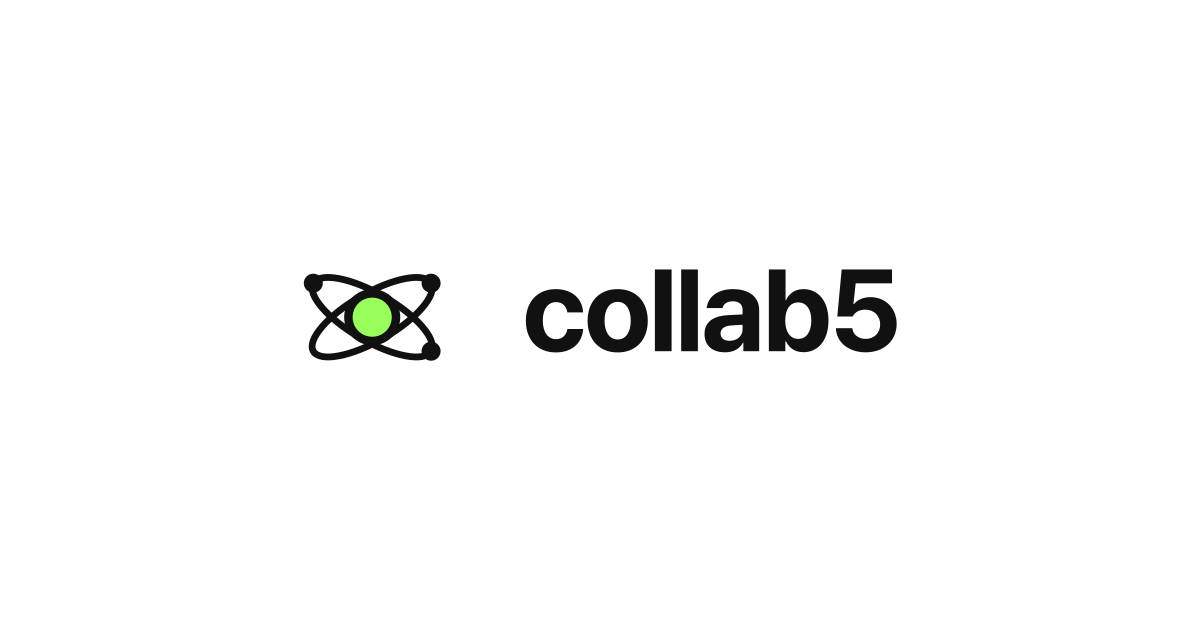
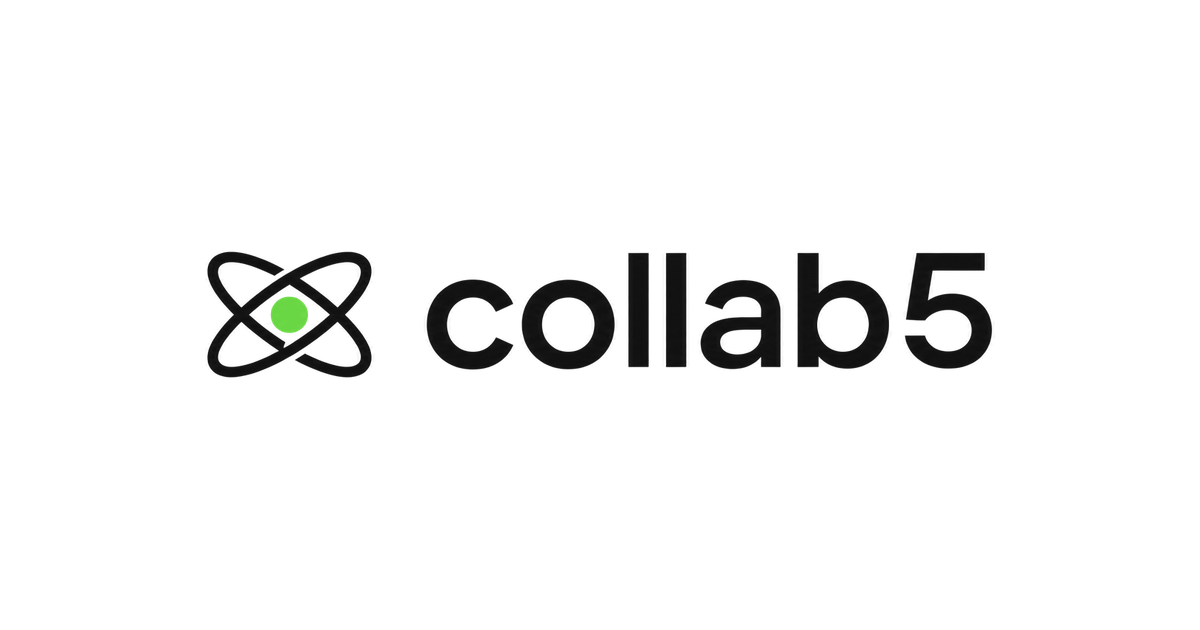
로고 교체 — 대표가 준 이미지 그대로 + 데스크톱 헤더 축소
대표 지정 시안(젠스파크 AI 이미지)을 **원본 그대로** 넣는다. 앞선 시도(4f3cb31)는 형상만
피팅해 벡터로 다시 그렸다가 되돌렸다(95585e6) — 요구사항은 "다시 그리기"가 아니라
"준 이미지를 쓰기"였다. 이번엔 모양을 1픽셀도 건드리지 않았다.

배경 제거(누끼)만 했다:
  배경이 순백이 아니라 #FEFEFE라, 255 기준으로 빼면 전체에 알파 0.4%짜리 막이 남는다.
  실제 배경 밝기를 재서 기준으로 삼고, 가장자리는 합성을 역산해 반투명으로 살렸다
  (먹은 밝기에서, 초록은 빨강 채널 감쇠에서 알파를 역산). 어두운 배경에 얹어도 흰 테 없음.
  원본 누끼 3종은 assets/logo-*-source.png 로 보관.

배포본은 크기만 줄였다 — 락업 730×120(6.6KB), 마크 205×160(3KB).
  64색 감량으로 57KB → 6.6KB. 헤더 24px 기준 5배 해상도라 고해상도 화면에서도 선명하다.
  24px로 나란히 놓고 봐도 원본과 구분되지 않는다(확인 완료).

📐 데스크톱 헤더 28 → 24 (대표: "데스크탑 기준으로 로고가 너무 크다").
   모바일 20은 유지 — "모바일은 지금 좋다"고 해서 **폭이 그대로가 되게** 뒀다(122.8 → 121.7px).
   풋터도 헤더를 넘지 않게 24 → 22 (모바일 20 동일).

교체한 자리 — 파일 5 + 코드 안 4:
  public/logo-lockup.png · logo-mark.png · og-image.png · src/app/icon.png · favicon.ico
  인라인 아톰 4곳: EmptyState · ReportSheet 대기 · EnrichWizard 대기 · c/[slug] 풋터
  → 파일만 바꾸면 이 4곳만 옛 아톰으로 남는다. 전부 같은 PNG를 보게 통일.
  옛 마크가 든 SVG 5개는 삭제(logo-lockup/logo-mark/logo-mark-dark/empty-atom/icon).
  남겨두면 다음에 누가 그걸 집어 옛 로고가 되살아난다.

⚠PNG라 색을 못 바꾼다. 뮤트가 필요한 자리는 opacity로 냈다(빈 상태 40%, 카드 풋터 55%).
  사이트가 전부 흰 배경이라 성립하는 방식이다 — 어두운 화면·인쇄물이 생기면 흰색 파일 별도 필요.
  c/[slug] 풋터는 가운데 점이 회색(mono)에서 브랜드 초록으로 바뀐다(13px라 거의 티 안 남).
🚨정사각 클래스 5곳 교체 — 새 마크는 1.28 비율이라 `w-10`/`w-9`/`w-11`/`w-4`가 전부 눌린다.
  옛 마크는 파일이 56×56 정사각이라 우연히 멀쩡했던 것뿐이다.

실측 (360/1280 · /search):
  헤더 121.7×20(모바일) / 146×24(데스크톱), 360px에서 검색칩까지 16.9px, 가로 스크롤 없음
  풋터 121.7×20, 터치 44px / 마크 렌더 비율 1.281 (안 눌림)
  npm run build 통과, 주요 경로·정적 자산 전부 200

Changed region(s): [[0.1542, 0.3921, 0.8325, 0.6032]]

diff --git a/src/components/SiteHeader.tsx b/src/components/SiteHeader.tsx
@@ -25,15 +25,18 @@ export async function SiteHeader() {
         className="-ml-2 flex h-full min-w-0 shrink-0 items-center rounded-md px-2 hover:bg-surface-soft"
         aria-label="collab5 홈"
       >
-        {/* 📏 높이는 **잉크 높이**다 — 08-16에 로고 SVG의 viewBox를 잉크에 맞게 조였다.
-            전엔 viewBox(232×56) 안에 세로 47%가 빈 여백이라, `h-6`(25.5px)을 줘도 실제로
-            보이는 글자는 13.6px뿐이었다. 그래서 "로고 폰트가 작다"(대표)로 보였던 것.
-            지금은 박스≈잉크라, 아래 20/28이 곧 화면에서 보이는 크기다.
-            🪤 폭 예산 — 잉크 종횡비 6.14이라 높이 1px = 폭 6.1px다. 360px 폰의 `/search`
-               헤더(로고+매거진칩+로그인)가 제일 빡빡해서 여기가 상한을 정한다. 20px일 때
-               로고 오른쪽에 15.7px 남는다(실측). 더 키우려면 먼저 그 화면부터 재라. */}
+        {/* 📏 높이 = 화면에서 보이는 크기다(파일이 잉크에 딱 맞게 잘려 있다).
+            🖼 08-16 대표 지정 로고로 교체 — **PNG다**. 대표가 준 이미지를 그대로 쓰는 게 요구사항이라
+               모양을 손대지 않았다(벡터로 다시 그렸다가 되돌린 이력 있음). 원본 누끼는
+               `assets/logo-lockup-source.png`, 배포본은 730×120로 줄여 64색 감량(6.6KB).
+               ⚠PNG라 **색을 못 바꾼다** — 어두운 배경/인쇄용이 필요해지면 흰색 파일을 따로 만들어야 한다.
+            🪤 폭 예산 — 종횡비 6.08이라 높이 1px = 폭 6.1px다. 360px 폰의 `/search` 헤더
+               (로고+검색칩+로그인)가 제일 빡빡해서 여기가 상한을 정한다. 20px일 때 로고 오른쪽에
+               17px 남는다(실측). 더 키우려면 먼저 그 화면부터 재라.
+            📐 데스크톱 28 → 24 (대표: "데스크탑 헤더 기준으로 로고가 너무 크다"). 모바일 20은 유지 —
+               "모바일은 지금 좋다"고 해서 폭이 그대로가 되게 뒀다(122.8 → 121.7px). */}
         {/* eslint-disable-next-line @next/next/no-img-element */}
-        <img src="/logo-lockup.svg" alt="" aria-hidden="true" className="h-[20px] w-auto sm:h-[28px]" />
+        <img src="/logo-lockup.png" alt="" aria-hidden="true" className="h-[20px] w-auto sm:h-[24px]" />
       </Link>
       {/* 14px 정수 — text-sm은 루트 17px 탓에 14.875px(분수)가 된다. 헤더는 전 페이지 공통이라
           여기 하나가 앱 전체에 분수 픽셀을 흩뿌리고 있었다(07-31 실측). */}

diff --git a/src/components/EmptyState.tsx b/src/components/EmptyState.tsx
@@ -1,6 +1,7 @@
 // 공용 빈 상태 — 아톰 글리프 + 제목 + 설명 + (선택) CTA + (선택) 보조 액션.
 // design.md §9.5 Empty State 크래프트 패턴. 배경 보드 없이 페이지 캔버스에 얹는다.
-// 아톰 글리프 = 빈 화면 전용 아이콘(로고 아톰의 느슨한 변형). 별도 파일: public/empty-atom.svg
+// 아톰 글리프 = 로고 마크(`public/logo-mark.png`)를 흐리게 쓴 것. 08-16 전엔 '느슨한 변형'을
+// 따로 그려 뒀었는데(궤도점 3개짜리 옛 아톰), 로고가 바뀌자 여기만 옛 얼굴로 남아 통일했다.
 import Link from "next/link";
 import type { ReactNode } from "react";
 
@@ -35,16 +36,18 @@ export function EmptyState({
   );
 }
 
-// 빈 화면 아톰 아이콘 — currentColor(text-faint)로 라이트·다크 자동 대응, 핵만 Kiwi 고정.
+// 빈 화면 아톰 아이콘 — 08-16 대표 지정 로고 마크로 교체.
+// 전엔 인라인 SVG(궤도점 3개짜리 옛 아톰)였다. 로고 파일만 바꾸고 이걸 두면 **빈 화면들만
+// 옛 아이덴티티로 남는다** — 실제로 앱 안에 이런 인라인 아톰이 4곳 있었다(여기 · ReportSheet
+// 대기 · EnrichWizard 대기 · c/[slug] 풋터). 전부 같은 파일을 보게 통일했다.
+//
+// ⚠PNG라 `currentColor`를 못 쓴다. 그래서 뮤트 톤을 **opacity로** 낸다 — 검정 마크 40%는
+//   흰 배경에서 #999 근처로, 예전 text-faint + opacity .45와 거의 같은 무게다.
+//   사이트가 전부 흰 배경이라 성립하는 방식이다. 어두운 화면이 생기면 흰색 파일이 따로 필요하다.
+// 🚨정사각 클래스 금지 — 비율이 1.28이라 `w-*`를 높이와 같게 박으면 찌그러진다.
 function AtomGlyph() {
   return (
-    <svg width="56" height="56" viewBox="0 0 56 56" fill="none" className="text-faint" aria-hidden="true">
-      <ellipse cx="28" cy="28" rx="23" ry="9" stroke="currentColor" strokeWidth="2" opacity="0.45" transform="rotate(28 28 28)" />
-      <ellipse cx="28" cy="28" rx="23" ry="9" stroke="currentColor" strokeWidth="2" opacity="0.45" transform="rotate(-28 28 28)" />
-      <circle cx="28" cy="28" r="6" fill="#98ff5c" />
-      <circle cx="6.5" cy="32" r="2.4" fill="currentColor" opacity="0.55" />
-      <circle cx="49.5" cy="24" r="2.4" fill="currentColor" opacity="0.55" />
-      <circle cx="33" cy="6.5" r="2.2" fill="currentColor" opacity="0.55" />
-    </svg>
+    // eslint-disable-next-line @next/next/no-img-element
+    <img src="/logo-mark.png" alt="" aria-hidden="true" className="h-[34px] w-auto opacity-40" />
   );
 }

diff --git a/src/app/m/[slug]/ReportSheet.tsx b/src/app/m/[slug]/ReportSheet.tsx
@@ -687,12 +687,11 @@ export function ReportSheet({
               //    (브랜드 정체성 + 어지럼 방지). 여기만 `animate-spin`+`animate-pulse`로 어기고 있었다(QA #25).
               //    정적 아톰 마크 + 순환 문구가 기준 구현(EnrichWizard LoadingView)과 같은 얼굴이다.
               <div role="status" aria-live="polite" className="flex flex-col items-center justify-center py-16 text-center">
-                {/* ⚠ fill은 토큰(var(--primary))으로 — 예전엔 #98ff5c 하드코딩이었다. */}
-                <svg width="44" height="44" viewBox="0 0 56 56" fill="none" className="text-faint" aria-hidden="true">
-                  <ellipse cx="28" cy="28" rx="23" ry="9" stroke="currentColor" strokeWidth="2" opacity="0.45" transform="rotate(28 28 28)" />
-                  <ellipse cx="28" cy="28" rx="23" ry="9" stroke="currentColor" strokeWidth="2" opacity="0.45" transform="rotate(-28 28 28)" />
-                  <circle cx="28" cy="28" r="6" fill="var(--primary)" />
-                </svg>
+                {/* 08-16 대표 지정 로고 마크로 교체 — 파일·크기·불투명도를 [[EmptyState 아톰]]과
+                    똑같이 맞춘다. 여기만 옛 아톰으로 남으면 리포트 대기 화면만 옛 로고가 된다.
+                    🚨`width`/`height` 속성 대신 className으로 — 비율 1.28이라 정사각이면 찌그러진다. */}
+                {/* eslint-disable-next-line @next/next/no-img-element */}
+                <img src="/logo-mark.png" alt="" aria-hidden="true" className="h-[34px] w-auto opacity-40" />
                 {/* 굴러가는 볼드(18) + 고정 회색(13) + 진행바 — 사다리 자체는 위저드 LoadingView와 같다.
                     ⚠ 볼드 줄은 문구마다 길이가 달라 한 줄↔두 줄을 오갈 수 있다 → `min-h`로 자리를 미리
                        잡아둬야 아톰 마크와 아래 줄이 위아래로 튀지 않는다(18px 두 줄 ≈ 52px).

diff --git a/src/app/c/[slug]/page.tsx b/src/app/c/[slug]/page.tsx
@@ -262,18 +262,13 @@ export default async function CardPage({
           <RsvpBar cardId={card.id} />
         </div>
 
-        {/* 8. 푸터 — 아톰 마크(mono, currentColor=다크대응) + 카피 */}
+        {/* 8. 푸터 — 아톰 마크 + 카피. 08-16 대표 지정 로고로 교체.
+            ⚠전엔 `currentColor` 모노(가운데 점도 회색)였는데 PNG라 색을 못 바꾼다 —
+              가운데 점이 브랜드 초록으로 나온다. 12px 글자 옆 13px짜리라 티는 거의 안 난다.
+            🚨`h-4 w-4`(정사각) 였다 → 비율 1.28이라 눌린다. 높이로만 잡고 `shrink-0`. */}
         <div className="mt-5 flex items-center justify-center gap-1.5 text-faint">
-          <svg viewBox="0 0 56 56" className="h-4 w-4" aria-hidden="true" fill="none">
-            <g stroke="currentColor" strokeWidth="2">
-              <ellipse cx="28" cy="28" rx="20" ry="7" transform="rotate(30 28 28)" />
-              <ellipse cx="28" cy="28" rx="20" ry="7" transform="rotate(-30 28 28)" />
-            </g>
-            <circle cx="45.32" cy="38" r="2.8" fill="currentColor" />
-            <circle cx="10.68" cy="18" r="2.8" fill="currentColor" />
-            <circle cx="45.32" cy="18" r="2.8" fill="currentColor" />
-            <circle cx="28" cy="28" r="7" fill="currentColor" />
-          </svg>
+          {/* eslint-disable-next-line @next/next/no-img-element */}
+          <img src="/logo-mark.png" alt="" aria-hidden="true" className="h-[13px] w-auto shrink-0 opacity-55" />
           <span className="text-[12px]">collab5로 만든 카드 · 답장은 편하실 때</span>
         </div>
       </article>

diff --git a/src/components/SiteFooter.tsx b/src/components/SiteFooter.tsx
@@ -20,12 +20,12 @@ export function SiteFooter() {
               📏 헤더와 짝을 맞춘다: 모바일 20으로 **같게**, 데스크톱은 24로 헤더(28)보다 한 단 아래.
                  풋터 로고는 간판이 아니라 서명이라 위아래가 뒤집히면 안 된다 — 처음에 22로 뒀다가
                  모바일에서 헤더(20)보다 커져서 되돌렸다.
-              ⚠08-16에 로고 viewBox를 잉크에 맞게 조여서, 같은 `h-6`이라도 이제 잉크가 24.6px다
-                (전엔 13.6px). 헷갈리지 않게 rem 유틸을 버리고 px로 박았다.
+              📏 헤더와 짝: 모바일 20으로 **같게**, 데스크톱은 22로 헤더(24)보다 한 단 아래.
+                 풋터 로고는 간판이 아니라 서명이라 헤더보다 커지면 안 된다.
               🪤20 + py 24 = 44. `py-[10px]`면 40이라 터치 권장치에 모자란다. */}
           <Link href="/" className="inline-flex items-center py-[12px]">
             {/* eslint-disable-next-line @next/next/no-img-element */}
-            <img src="/logo-lockup.svg" alt="collab5" className="h-[20px] w-auto sm:h-[24px]" />
+            <img src="/logo-lockup.png" alt="collab5" className="h-[20px] w-auto sm:h-[22px]" />
           </Link>
           {/* 📏 링크마다 `py-[12px]` — **글자 크기는 그대로 두고 터치 영역만** 21px → 44px로 넓힌다.
               텍스트 링크는 줄간격이 곧 높이라 21px밖에 안 됐다(권장치의 절반 미만).

diff --git a/src/app/register/EnrichWizard.tsx b/src/app/register/EnrichWizard.tsx
@@ -1544,16 +1544,11 @@ function LoadingView({ name, generating }: { name: string; generating?: boolean 
   }, [msgs.length]);
   return (
     <div className="flex flex-col items-center py-6 text-center" role="status" aria-live="polite">
-      <svg viewBox="0 0 56 56" className="h-11 w-11 text-ink" fill="none" aria-hidden="true">
-        <g stroke="currentColor" strokeWidth="2">
-          <ellipse cx="28" cy="28" rx="20" ry="7" transform="rotate(30 28 28)" />
-          <ellipse cx="28" cy="28" rx="20" ry="7" transform="rotate(-30 28 28)" />
-        </g>
-        <circle cx="45.32" cy="38" r="2.8" fill="currentColor" />
-        <circle cx="10.68" cy="18" r="2.8" fill="currentColor" />
-        <circle cx="45.32" cy="18" r="2.8" fill="currentColor" />
-        <circle cx="28" cy="28" r="7" fill="var(--primary)" stroke="currentColor" strokeWidth="2" />
-      </svg>
+      {/* 08-16 대표 지정 로고 마크로 교체. 여긴 대기 화면의 주인공이라 **진하게**(불투명도 없음),
+          빈 상태 글리프(34px·40%)보다 한 단 크게 40px. 파일은 같은 걸 본다.
+          🚨예전 `h-11 w-11`은 정사각이었다. 새 마크는 비율 1.28이라 그대로 두면 가로로 눌린다. */}
+      {/* eslint-disable-next-line @next/next/no-img-element */}
+      <img src="/logo-mark.png" alt="" aria-hidden="true" className="h-[40px] w-auto" />
       <p className="mt-5 text-[18px] font-bold text-ink">
         {generating
           ? "소개를 만드는 중이에요"

diff --git a/src/app/search/SearchClient.tsx b/src/app/search/SearchClient.tsx
@@ -160,8 +160,10 @@ export function SearchClient({ all }: { all: Maker[] }) {
                     />
                   ) : (
                     <div className="flex h-full w-full items-center justify-center bg-primary-pale">
+                      {/* 🚨`w-10`(정사각) 금지 — 08-16 새 마크는 가로:세로가 1.28이라 폭을 높이와
+                          같게 박으면 찌그러진다. 예전 마크는 파일이 56×56 정사각이라 우연히 멀쩡했던 것. */}
                       {/* eslint-disable-next-line @next/next/no-img-element */}
-                      <img src="/logo-mark.svg" alt="collab5" className="h-10 w-10 opacity-70" />
+                      <img src="/logo-mark.png" alt="collab5" className="h-[34px] w-auto opacity-70" />
                     </div>
                   )}
                 </div>

diff --git a/src/components/BrandGrid.tsx b/src/components/BrandGrid.tsx
@@ -35,8 +35,10 @@ function BrandCell({ m }: { m: Maker }) {
           <img src={m.photos[0]} alt="" loading="lazy" className="h-full w-full object-cover" />
         ) : (
           <div className="flex h-full w-full items-center justify-center bg-primary-pale">
+            {/* 🚨정사각(`w-9`) 금지 — 08-16 새 마크는 1.28 비율이라 찌그러진다.
+                여긴 92px 정사각 썸네일이라 높이로만 잡는다(30 → 폭 38.5). */}
             {/* eslint-disable-next-line @next/next/no-img-element */}
-            <img src="/logo-mark.svg" alt="collab5" className="h-9 w-9 opacity-70" />
+            <img src="/logo-mark.png" alt="collab5" className="h-[30px] w-auto opacity-70" />
           </div>
         )}
       </div>
